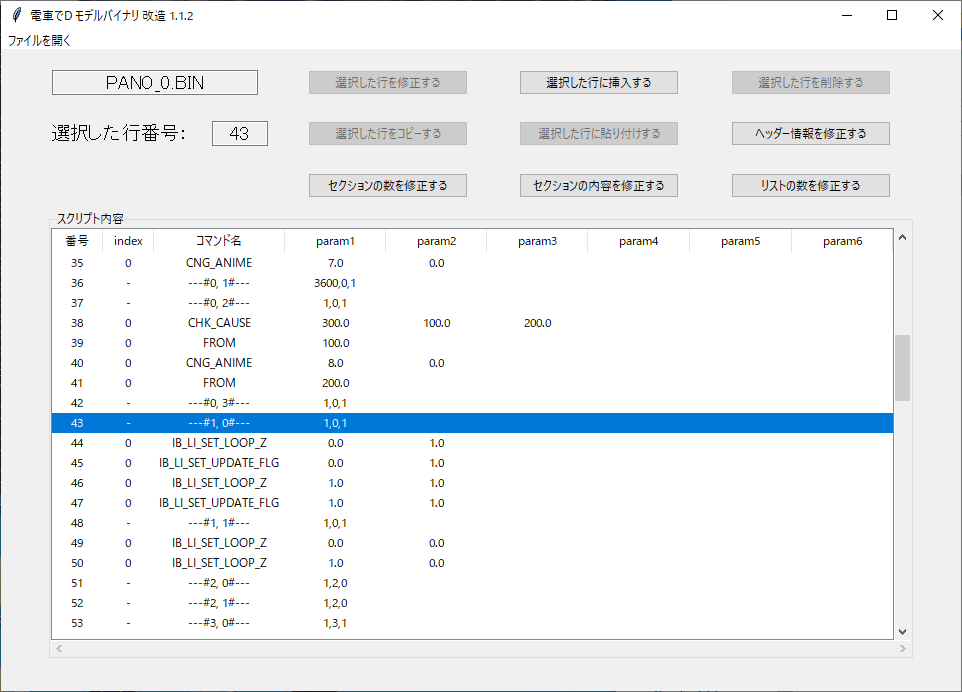
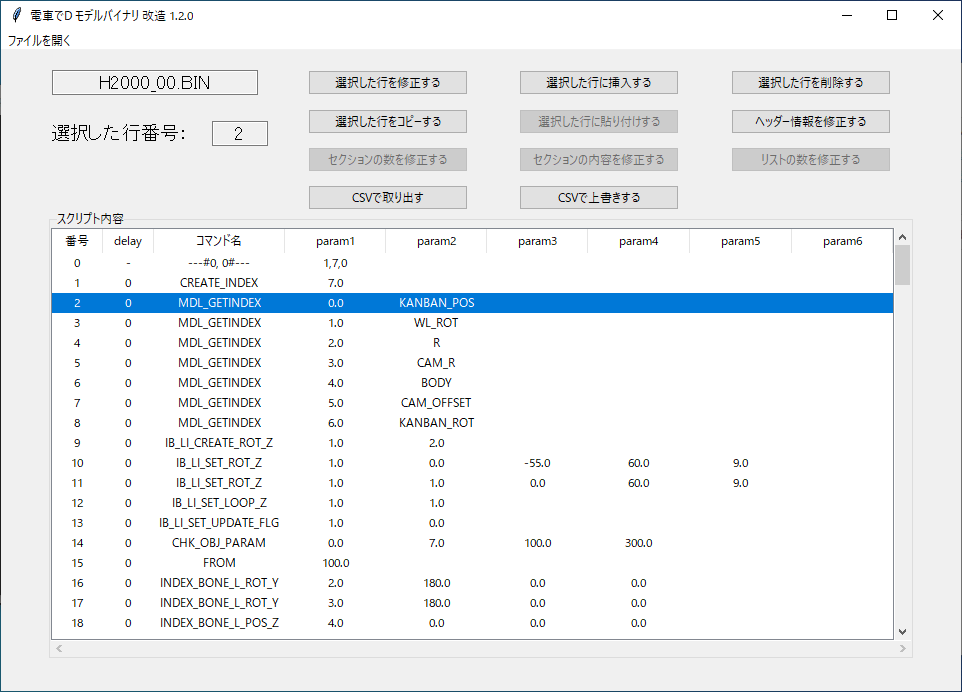
CSV機能追加

diff --git a/mdlDecrypt.py b/mdlDecrypt.py
@@ -543,9 +543,11 @@ def createWidget():
         numModifyBtn
     ]
     headerFileEditBtn['state'] = 'normal'
+    csvExtractBtn['state'] = 'normal'
+    csvLoadAndSaveBtn['state'] = 'normal'
     frame = ScrollbarFrame(scriptLf, v_select, btnList)
 
-    col_tuple = ('番号', 'index', 'コマンド名', 'ファイルフラグ', 'セクション')
+    col_tuple = ('番号', 'delay', 'コマンド名', 'ファイルフラグ', 'セクション')
     paramList = []
     for i in range(decryptFile.max_param):
         paramList.append("param{0}".format(i + 1))
@@ -555,7 +557,7 @@ def createWidget():
 
     frame.tree.column('#0', width=0, stretch=False)
     frame.tree.column('番号', anchor=tkinter.CENTER, width=50)
-    frame.tree.column('index', anchor=tkinter.CENTER, width=50)
+    frame.tree.column('delay', anchor=tkinter.CENTER, width=50)
     frame.tree.column('コマンド名', anchor=tkinter.CENTER, width=130)
     frame.tree.column('ファイルフラグ', width=20, stretch=False)
     frame.tree.column('セクション', stretch=False)
@@ -566,14 +568,14 @@ def createWidget():
     displayList = []
 
     frame.tree.heading('番号', text='番号', anchor=tkinter.CENTER)
-    frame.tree.heading('index', text='index', anchor=tkinter.CENTER)
+    frame.tree.heading('delay', text='delay', anchor=tkinter.CENTER)
     frame.tree.heading('コマンド名', text='コマンド名', anchor=tkinter.CENTER)
     for i in range(decryptFile.max_param):
         col_name = "param{0}".format(i + 1)
         displayList.append(col_name)
         frame.tree.heading(col_name, text=col_name, anchor=tkinter.CENTER)
 
-    frame.tree["displaycolumns"] = ["番号", "index", "コマンド名"]
+    frame.tree["displaycolumns"] = ["番号", "delay", "コマンド名"]
     frame.tree["displaycolumns"] += tuple(displayList)
 
     index = 0
@@ -649,7 +651,7 @@ def copyLine():
     scriptData = []
     selectId = frame.tree.selection()[0]
     selectItem = frame.tree.set(selectId)
-    scriptData.append(int(selectItem["index"]))
+    scriptData.append(int(selectItem["delay"]))
     scriptData.append(cmdList.index(selectItem["コマンド名"]))
     paramCnt = len(selectItem) - 5
     scriptData.append(paramCnt)
@@ -697,16 +699,20 @@ def reloadFile():
                 mb.showerror(title="エラー", message=errorMsg)
                 return
 
+            selectId = -1
             if v_select.get() != "":
                 selectId = int(v_select.get())
-                deleteWidget()
-                maxIndex = createWidget()
-                if selectId >= maxIndex:
-                    selectId = maxIndex - 1
-                if selectId - 3 < 0:
-                    frame.tree.see(0)
-                else:
-                    frame.tree.see(selectId - 3)
+            deleteWidget()
+            maxIndex = createWidget()
+            if selectId >= maxIndex:
+                selectId = maxIndex - 1
+
+            if selectId - 3 < 0:
+                frame.tree.see(0)
+            else:
+                frame.tree.see(selectId - 3)
+
+            if selectId >= 0:
                 frame.tree.selection_set(selectId)
         except Exception:
             print(traceback.format_exc())
@@ -752,8 +758,106 @@ def numModifyBtn():
         reloadFile()
 
 
+def csvExtractBtn():
+    global decryptFile
+    file = v_fileName.get()
+    filename = os.path.splitext(os.path.basename(file))[0]
+    file_path = fd.asksaveasfilename(initialfile=filename, defaultextension='csv', filetypes=[('mdlbin_csv', '*.csv')])
+    errorMsg = "CSVで取り出す機能が失敗しました。\n権限問題の可能性があります。"
+    if file_path:
+        try:
+            w = open(file_path, "w")
+            num = 0
+            for scriptDataInfoList in decryptFile.scriptDataAllInfoList:
+                listNum = 0
+                for scriptDataInfo in scriptDataInfoList:
+                    headerInfo = "#{0}-{1},".format(num, listNum)
+                    headerInfo += ",".join(str(n) for n in scriptDataInfo[0])
+                    headerInfo += "\n"
+                    w.write(headerInfo)
+                    for scriptData in scriptDataInfo[1:]:
+                        data = "{0},{1},".format(scriptData[0], cmdList[scriptData[1]])
+                        paramCnt = scriptData[2]
+                        paramList = []
+                        for i in range(paramCnt):
+                            paramList.append(scriptData[4 + i])
+                        data += ",".join(str(p) for p in paramList)
+                        data += "\n"
+                        w.write(data)
+                    listNum += 1
+                num += 1
+            w.close()
+            mb.showinfo(title="成功", message="CSVで取り出しました")
+        except Exception:
+            print(traceback.format_exc())
+            mb.showerror(title="エラー", message=errorMsg)
+
+
+def csvLoadAndSaveBtn():
+    global decryptFile
+    file_path = fd.askopenfilename(defaultextension='csv', filetypes=[("mdlbin_csv", "*.csv")])
+    if not file_path:
+        return
+    f = open(file_path)
+    csvLines = f.readlines()
+    f.close()
+
+    csvScriptDataAllInfoList = []
+    csvScriptDataInfoList = []
+    csvScriptDataInfo = []
+    csvScriptData = []
+    curNum = -1
+    curListNum = -1
+    for i in range(len(csvLines)):
+        try:
+            csvLine = csvLines[i].strip()
+            arr = csvLine.split(",")
+
+            if "#" in arr[0]:
+                section = arr[0].strip("#").split("-")
+                num = int(section[0])
+                listNum = int(section[1])
+
+                if curNum != num:
+                    curNum = num
+                    curListNum = listNum
+                    csvScriptDataInfoList = []
+                    csvScriptDataAllInfoList.append(csvScriptDataInfoList)
+                    csvScriptDataInfo = []
+                    csvScriptDataInfoList.append(csvScriptDataInfo)
+                elif curListNum != listNum:
+                    curListNum = listNum
+                    csvScriptDataInfo = []
+                    csvScriptDataInfoList.append(csvScriptDataInfo)
+                csvScriptDataInfo.append(arr[1:])
+                csvScriptData = []
+                csvScriptDataInfo.append(csvScriptData)
+            else:
+                cmdName = arr[1]
+                if cmdName not in cmdList:
+                    errorMsg = "{0}行のコマンドは存在しません [{1}]".format(i + 1, cmdName)
+                    mb.showerror(title="読み込みエラー", message=errorMsg)
+                    return
+                csvScriptData.append(arr)
+        except Exception:
+            errorMsg = "{0}行のデータを読み込み失敗しました。".format(i + 1)
+            mb.showerror(title="読み込みエラー", message=errorMsg)
+            return
+
+    msg = "{0}行のデータを読み込みしました。\n上書きしますか？".format(i + 1)
+    result = mb.askokcancel(title="警告", message=msg, icon="warning")
+
+    if result:
+        if not decryptFile.saveCsv(csvScriptDataAllInfoList):
+            decryptFile.printError()
+            errorMsg = "保存に失敗しました。\nファイルが他のプログラムによって開かれている\nまたは権限問題の可能性があります"
+            mb.showerror(title="保存エラー", message=errorMsg)
+            return
+        mb.showinfo(title="成功", message="CSVで上書きしました")
+        reloadFile()
+
 root = tkinter.Tk()
-root.title("電車でD モデルバイナリ 改造 1.1.2")
+root.title("電車でD モデルバイナリ 改造 1.2.0")
 root.geometry("960x640")
 
 menubar = tkinter.Menu(root)
@@ -781,22 +885,28 @@ deleteLineBtn = ttk.Button(root, text="選択した行を削除する", width=25
 deleteLineBtn.place(relx=0.76, rely=0.03)
 
 copyLineBtn = ttk.Button(root, text="選択した行をコピーする", width=25, state="disabled", command=copyLine)
-copyLineBtn.place(relx=0.32, rely=0.11)
+copyLineBtn.place(relx=0.32, rely=0.09)
 
 pasteLineBtn = ttk.Button(root, text="選択した行に貼り付けする", width=25, state="disabled", command=pasteLine)
-pasteLineBtn.place(relx=0.54, rely=0.11)
+pasteLineBtn.place(relx=0.54, rely=0.09)
 
 headerFileEditBtn = ttk.Button(root, text="ヘッダー情報を修正する", width=25, state="disabled", command=headerFileEditBtn)
-headerFileEditBtn.place(relx=0.76, rely=0.11)
+headerFileEditBtn.place(relx=0.76, rely=0.09)
 
 listNumModifyBtn = ttk.Button(root, text="セクションの数を修正する", width=25, state="disabled", command=listNumModifyBtn)
-listNumModifyBtn.place(relx=0.32, rely=0.19)
+listNumModifyBtn.place(relx=0.32, rely=0.15)
 
 listHeadeModifyBtn = ttk.Button(root, text="セクションの内容を修正する", width=25, state="disabled", command=listHeadeModifyBtn)
-listHeadeModifyBtn.place(relx=0.54, rely=0.19)
+listHeadeModifyBtn.place(relx=0.54, rely=0.15)
 
 numModifyBtn = ttk.Button(root, text="リストの数を修正する", width=25, state="disabled", command=numModifyBtn)
-numModifyBtn.place(relx=0.76, rely=0.19)
+numModifyBtn.place(relx=0.76, rely=0.15)
+
+csvExtractBtn = ttk.Button(root, text="CSVで取り出す", width=25, state="disabled", command=csvExtractBtn)
+csvExtractBtn.place(relx=0.32, rely=0.21)
+
+csvLoadAndSaveBtn = ttk.Button(root, text="CSVで上書きする", width=25, state="disabled", command=csvLoadAndSaveBtn)
+csvLoadAndSaveBtn.place(relx=0.54, rely=0.21)
 
 scriptLf = ttk.LabelFrame(root, text="スクリプト内容")
 scriptLf.place(relx=0.05, rely=0.25, relwidth=0.9, relheight=0.70)

diff --git a/importPy/tkinterEditClass.py b/importPy/tkinterEditClass.py
@@ -30,14 +30,14 @@ class InputDialog(sd.Dialog):
 
     def body(self, master):
         self.resizable(False, False)
-        self.idxLb = ttk.Label(master, text="index", width=12, font=("", 14))
+        self.idxLb = ttk.Label(master, text="delay", width=12, font=("", 14))
         self.idxLb.grid(row=0, column=0, sticky=tkinter.N + tkinter.S)
-        self.v_idx = tkinter.StringVar()
+        self.v_delay = tkinter.StringVar()
         if self.cmdItem is not None:
-            self.v_idx.set(self.cmdItem["index"])
+            self.v_delay.set(self.cmdItem["delay"])
         else:
-            self.v_idx.set(0)
-        self.idxEt = ttk.Entry(master, textvariable=self.v_idx, width=33)
+            self.v_delay.set(0)
+        self.idxEt = ttk.Entry(master, textvariable=self.v_delay, width=33)
         self.idxEt.grid(row=0, column=1, sticky=tkinter.N + tkinter.S, pady=10)
 
         self.cmdLb = ttk.Label(master, text="コマンド名", width=12, font=("", 14))
@@ -169,7 +169,7 @@ class InputDialog(sd.Dialog):
         result = mb.askokcancel(title="確認", message=infoMsg, parent=self)
         if result:
             scriptData = []
-            scriptData.append(int(self.v_idx.get()))
+            scriptData.append(int(self.v_delay.get()))
             scriptData.append(self.cmdList.index(self.v_cmd.get()))
             scriptData.append(self.v_paramCnt.get())
             if len(textParamList) == 0:
@@ -271,11 +271,13 @@ class HeaderDialog(sd.Dialog):
         super(HeaderDialog, self).__init__(parent=master, title=title)
 
     def body(self, master):
-        self.resizable(False, False)
+        self.resizable(True, True)
         self.btnFrame = tkinter.Frame(master, pady=5)
         self.btnFrame.pack()
         self.listFrame = tkinter.Frame(master)
         self.listFrame.pack()
+
+        listHeight = 8
 
         self.modifyBtn = tkinter.Button(self.btnFrame, font=("", 14), text="修正", state="disabled", command=self.modify)
         self.modifyBtn.grid(padx=10, row=0, column=0, sticky=tkinter.W + tkinter.E)
@@ -289,7 +291,7 @@ class HeaderDialog(sd.Dialog):
 
         copyImgList = self.setListboxInfo(0, self.imgList)
         self.v_imgList = tkinter.StringVar(value=copyImgList)
-        self.imgListListbox = tkinter.Listbox(self.listFrame, selectmode="single", font=("", 14), width=30, listvariable=self.v_imgList)
+        self.imgListListbox = tkinter.Listbox(self.listFrame, selectmode="single", font=("", 14), width=30, height=listHeight, listvariable=self.v_imgList)
         self.imgListListbox.grid(row=1, column=0, sticky=tkinter.W + tkinter.E)
         self.imgListListbox.bind("<<ListboxSelect>>", lambda e: self.buttonActive(e, 0, self.imgListListbox, self.imgListListbox.curselection()))
         ###
@@ -301,7 +303,7 @@ class HeaderDialog(sd.Dialog):
 
         copyImgSizeList = self.setListboxInfo(1, self.imgSizeList)
         self.v_imgSize = tkinter.StringVar(value=copyImgSizeList)
-        self.imgSizeListbox = tkinter.Listbox(self.listFrame, selectmode="single", font=("", 14), width=30, listvariable=self.v_imgSize)
+        self.imgSizeListbox = tkinter.Listbox(self.listFrame, selectmode="single", font=("", 14), width=30, height=listHeight, listvariable=self.v_imgSize)
         self.imgSizeListbox.grid(row=1, column=2, sticky=tkinter.W + tkinter.E)
         self.imgSizeListbox.bind('<<ListboxSelect>>', lambda e: self.buttonActive(e, 1, self.imgSizeListbox, self.imgSizeListbox.curselection()))
         ###
@@ -310,7 +312,7 @@ class HeaderDialog(sd.Dialog):
 
         copySmfList = self.setListboxInfo(2, self.smfList)
         self.v_smfList = tkinter.StringVar(value=copySmfList)
-        self.smfListListbox = tkinter.Listbox(self.listFrame, selectmode="single", font=("", 14), width=30, listvariable=self.v_smfList)
+        self.smfListListbox = tkinter.Listbox(self.listFrame, selectmode="single", font=("", 14), width=30, height=listHeight, listvariable=self.v_smfList)
         self.smfListListbox.grid(row=3, column=0, sticky=tkinter.W + tkinter.E)
         self.smfListListbox.bind('<<ListboxSelect>>', lambda e: self.buttonActive(e, 2, self.smfListListbox, self.smfListListbox.curselection()))
         ###
@@ -322,7 +324,7 @@ class HeaderDialog(sd.Dialog):
 
         copyWavList = self.setListboxInfo(3, self.wavList)
         self.v_wavList = tkinter.StringVar(value=copyWavList)
-        self.wavListListbox = tkinter.Listbox(self.listFrame, selectmode="single", font=("", 14), width=30, listvariable=self.v_wavList)
+        self.wavListListbox = tkinter.Listbox(self.listFrame, selectmode="single", font=("", 14), width=30, height=listHeight, listvariable=self.v_wavList)
         self.wavListListbox.grid(row=3, column=2, sticky=tkinter.W + tkinter.E)
         self.wavListListbox.bind('<<ListboxSelect>>', lambda e: self.buttonActive(e, 3, self.wavListListbox, self.wavListListbox.curselection()))
         ###
@@ -332,7 +334,7 @@ class HeaderDialog(sd.Dialog):
 
             copyTgaList = self.setListboxInfo(4, self.tgaList)
             self.v_tgaList = tkinter.StringVar(value=copyTgaList)
-            self.tgaListListbox = tkinter.Listbox(self.listFrame, selectmode="single", font=("", 14), listvariable=self.v_tgaList)
+            self.tgaListListbox = tkinter.Listbox(self.listFrame, selectmode="single", font=("", 14), height=listHeight, listvariable=self.v_tgaList)
             self.tgaListListbox.grid(row=5, column=0, columnspan=3, sticky=tkinter.W + tkinter.E)
             self.tgaListListbox.bind('<<ListboxSelect>>', lambda e: self.buttonActive(e, 4, self.tgaListListbox, self.tgaListListbox.curselection()))
 

diff --git a/importPy/decrypt.py b/importPy/decrypt.py
@@ -403,6 +403,80 @@ class MdlBinDecrypt:
             self.error = traceback.format_exc()
             return False
 
+    def saveCsv(self, csvScriptDataAllInfoList):
+        try:
+            index = self.allListIndex
+            newByteArr = self.byteArr[0:index]
+
+            allListCnt = len(csvScriptDataAllInfoList)
+            newByteArr.append(allListCnt)
+
+            for csvScriptDataInfoList in csvScriptDataAllInfoList:
+                listCnt = len(csvScriptDataInfoList)
+                newByteArr.append(listCnt)
+
+                for csvScriptDataInfo in csvScriptDataInfoList:
+                    headerInfo = csvScriptDataInfo[0]
+                    for header in headerInfo:
+                        h = struct.pack("<h", int(header))
+                        newByteArr.extend(h)
+
+                    cmdCnt = len(csvScriptDataInfo[1])
+                    newByteArr.append(cmdCnt)
+                    for csvScriptData in csvScriptDataInfo[1]:
+                        delay = int(csvScriptData[0])
+                        delayH = struct.pack("<h", delay)
+                        newByteArr.extend(delayH)
+
+                        cmdName = csvScriptData[1]
+                        cmdIdx = self.cmdList.index(cmdName)
+                        cmdIdxH = struct.pack("<h", cmdIdx)
+                        newByteArr.extend(cmdIdxH)
+
+                        csvAllParamList = csvScriptData[2:]
+                        allParamList = []
+                        for param in csvAllParamList:
+                            if param == "":
+                                continue
+                            allParamList.append(param)
+
+                        allParamCnt = len(allParamList)
+                        floatCnt = 0
+                        paramByteList = []
+                        floatFlag = True
+                        for i in range(allParamCnt):
+                            if floatFlag:
+                                try:
+                                    tempF = struct.pack("<f", float(csvScriptData[2 + i]))
+                                    floatCnt += 1
+                                    paramByteList.append(tempF)
+                                except Exception:
+                                    floatFlag = False
+                                    tempS = csvScriptData[2 + i].encode("shift-jis")
+                                    paramByteList.append(struct.pack("<b", len(tempS)))
+                                    paramByteList.append(tempS)
+                            else:
+                                tempS = csvScriptData[2 + i].encode("shift-jis")
+                                paramByteList.append(struct.pack("<b", len(tempS)))
+                                paramByteList.append(tempS)
+
+                        stringCnt = allParamCnt - floatCnt
+                        if stringCnt == 0:
+                            stringCnt = 0xFF
+
+                        newByteArr.append(allParamCnt)
+                        if self.ver >= 3:
+                            newByteArr.append(stringCnt)
+
+                        for paramByte in paramByteList:
+                            newByteArr.extend(paramByte)
+            self.byteArr = newByteArr
+            self.save()
+            return True
+        except Exception:
+            self.error = traceback.format_exc()
+            return False
+
     def save(self):
         w = open(self.filePath, "wb")
         w.write(self.byteArr)
